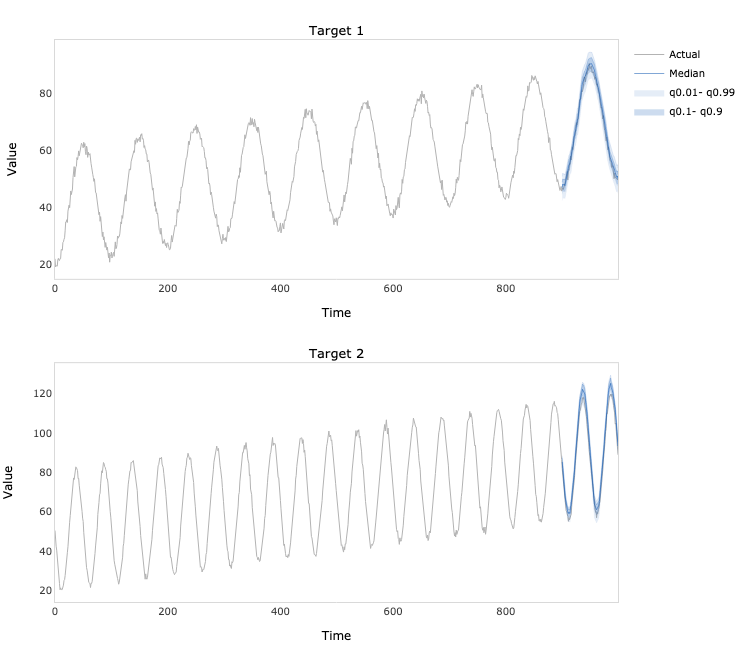
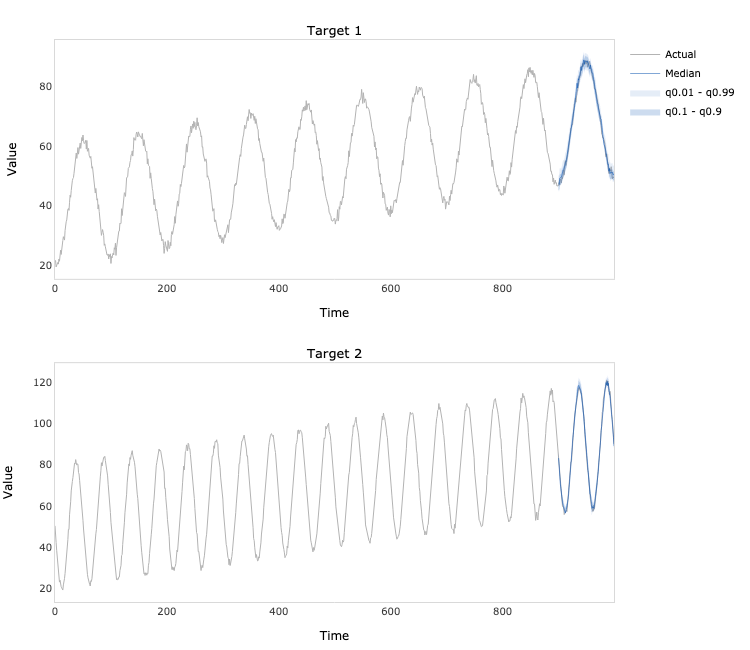
update plot function

diff --git a/deep_tcn_tensorflow/plots.py b/deep_tcn_tensorflow/plots.py
@@ -99,7 +99,7 @@ def plot(df, q, n_targets, n_quantiles):
                     mode='lines',
                     line=dict(
                         color='rgba(5, 80, 174, ' + str(0.1 * (j + 1))  + ')',
-                        width=1
+                        width=0.1
                     )
                 ),
                 row=i + 1,
@@ -110,14 +110,14 @@ def plot(df, q, n_targets, n_quantiles):
                 go.Scatter(
                     x=df['time_idx'],
                     y=df['target_' + str(i + 1) + '_' + str(q[j])],
-                    name='q' + str(q[j]) + '- q' + str(q[- (j + 1)]),
+                    name='q' + str(q[j]) + ' - q' + str(q[- (j + 1)]),
                     showlegend=True if i == 0 else False,
                     mode='lines',
                     fill='tonexty',
                     fillcolor='rgba(5, 80, 174, ' + str(0.1 * (j + 1)) + ')',
                     line=dict(
-                        width=0.25,
                         color='rgba(5, 80, 174, ' + str(0.1 * (j + 1)) + ')',
+                        width=0.1,
                     ),
                 ),
                 row=i + 1,
